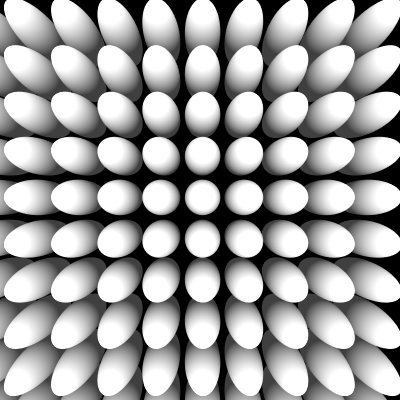
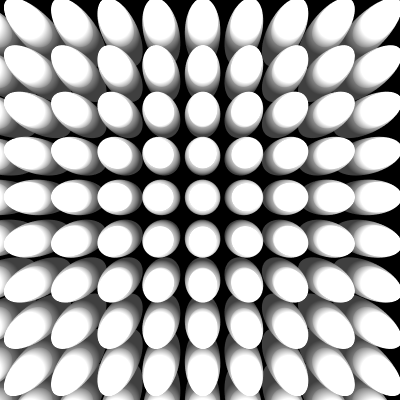
Fix bug in OpenCL specular shading causing more out-of-gamut colors than expected

diff --git a/src/World/World.cpp b/src/World/World.cpp
@@ -144,10 +144,10 @@ void World::build(){
 	// add_light(l);
 
 	// spheres
-	// Phong* red_material = new Phong();
-	// red_material->set_ks(0.15);
-	// red_material->set_exp(0.25);
-	Matte* red_material = new Matte();
+	Phong* red_material = new Phong();
+	red_material->set_ks(0.15);
+	red_material->set_exp(0.25);
+	// Matte* red_material = new Matte();
 	red_material->set_kd(0.6);
 	red_material->set_ka(0.25);
 	red_material->set_cd(white);
